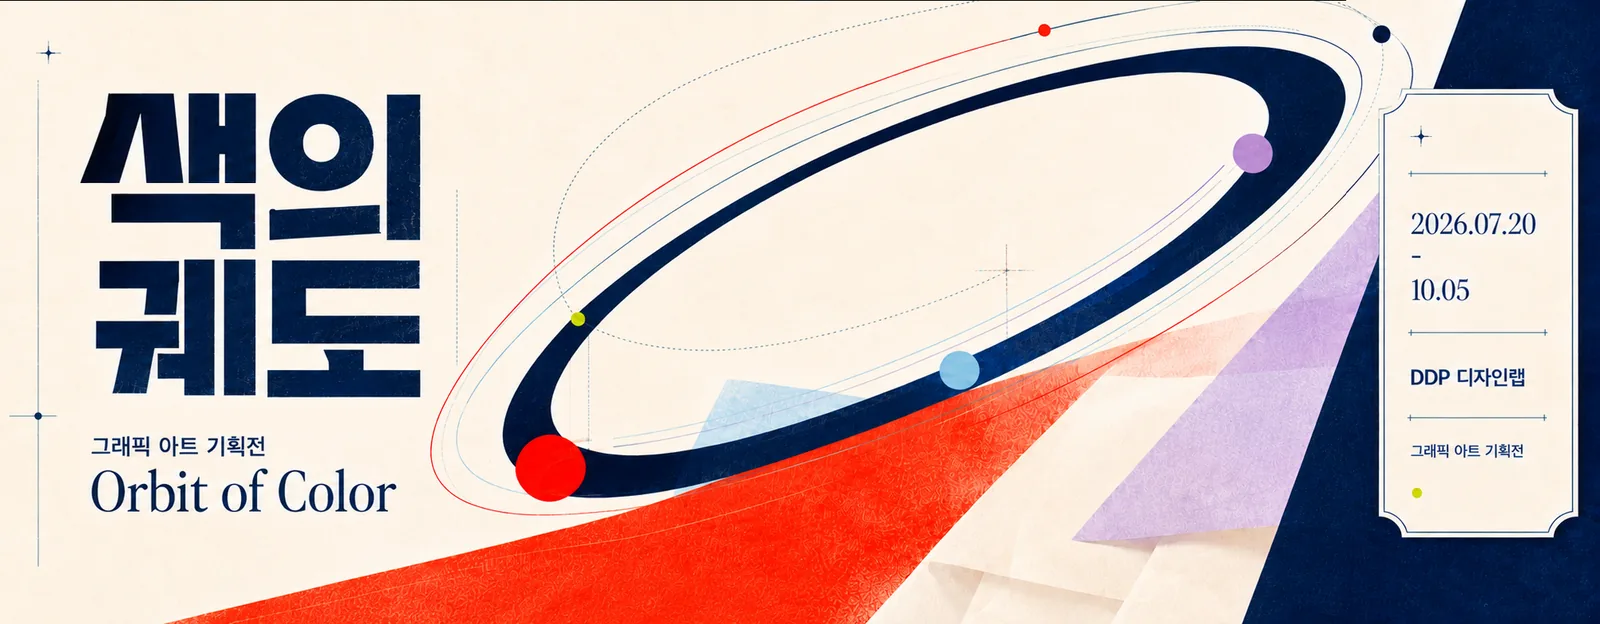
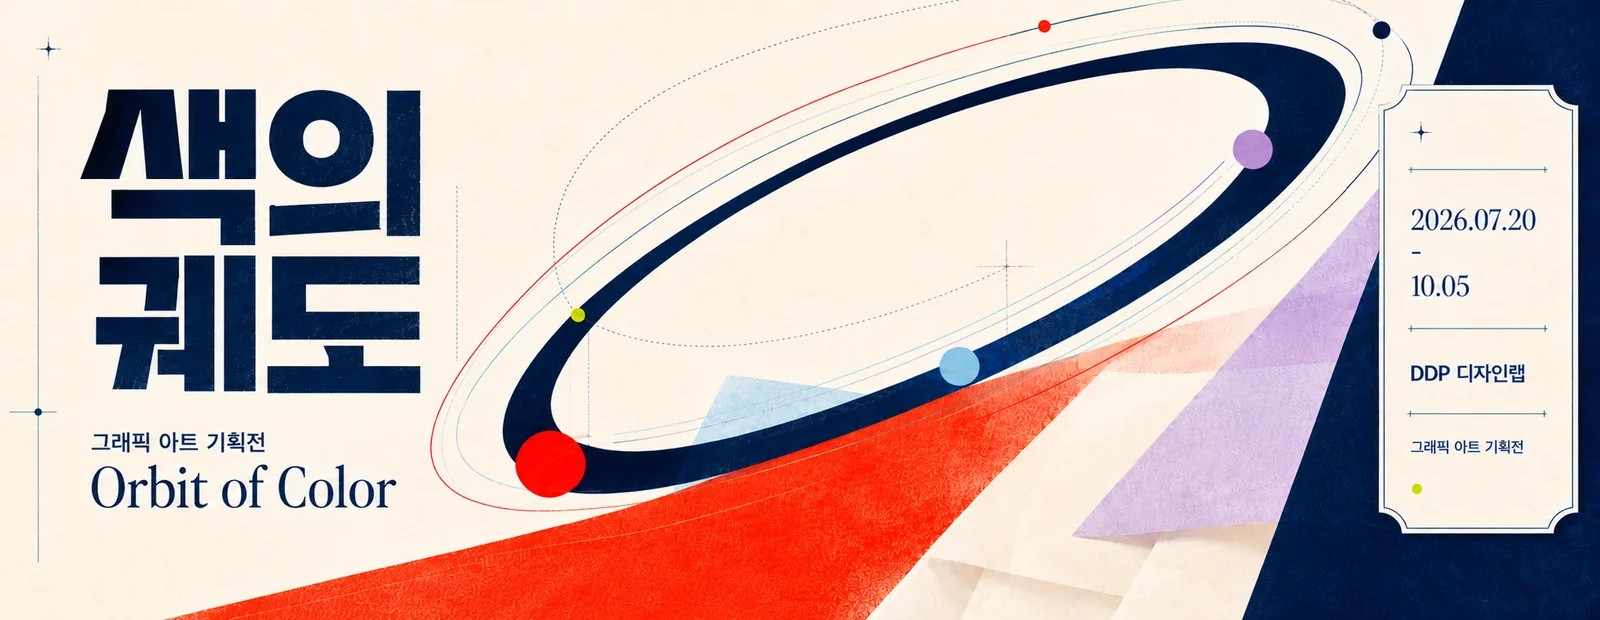
전체보기 그리드 배너 클릭 확대 추가 + 소개 문구 통일
- Banner 전체보기 그리드에서 배너 클릭 시 원본 확대(오버레이) 지원
- 사이드바/이름/타이틀 소개 문구를 'Visual Graphic · ...'로 통일
- 배너 29 썸네일을 800px 규격으로 복구(원본 크기로 잘못 저장돼 있던 것)
- .pt-images/ (채팅 주석 스크린샷) gitignore 처리

Claude-Session: https://claude.ai/code/session_01UCf6XrBxcSYWrN9poRsEtR

diff --git a/index.html b/index.html
@@ -3,11 +3,11 @@
   <head>
     <meta charset="utf-8">
     <meta name="viewport" content="width=device-width, initial-scale=1">
-    <title>조현채 · Visual / Banner / UI·UX Design Portfolio</title>
+    <title>조현채 · Visual Graphic · Banner · UI·UX Design Portfolio</title>
     <meta name="description" content="조현채 포트폴리오 — 시각그래픽디자인, 배너디자인, UI·UX디자인 작업을 한 웹사이트에 정리한 아카이브입니다.">
     <meta name="author" content="조현채 (Jo Hyeon Chae)">
     <meta property="og:type" content="website">
-    <meta property="og:title" content="조현채 · Visual / Banner / UI·UX Design Portfolio">
+    <meta property="og:title" content="조현채 · Visual Graphic · Banner · UI·UX Design Portfolio">
     <meta property="og:description" content="시각그래픽·배너·UI·UX 디자인 작업을 정리한 조현채의 디자인 포트폴리오.">
     <meta name="twitter:card" content="summary_large_image">
     <style>
@@ -1140,6 +1140,58 @@
         margin-right: 6px;
       }
 
+      .bgrid-item {
+        cursor: zoom-in;
+      }
+
+      /* 전체 보기 그리드에서 배너 클릭 시 원본 확대 */
+      .bgrid-zoom {
+        position: fixed;
+        inset: 0;
+        z-index: 1100;
+        display: flex;
+        flex-direction: column;
+        align-items: center;
+        justify-content: center;
+        gap: 14px;
+        padding: 40px;
+        background: rgba(12, 12, 12, 0.92);
+        opacity: 0;
+        visibility: hidden;
+        transition: opacity .25s ease, visibility .25s ease;
+        cursor: zoom-out;
+      }
+
+      .bgrid-zoom.show {
+        opacity: 1;
+        visibility: visible;
+      }
+
+      .bgrid-zoom img {
+        display: block;
+        width: auto;
+        height: auto;
+        max-width: 92%;
+        max-height: 82%;
+        box-shadow: 0 20px 60px rgba(0, 0, 0, 0.5);
+      }
+
+      .bgrid-zoom-cap {
+        display: flex;
+        align-items: baseline;
+        gap: 12px;
+        font-size: 14px;
+        color: #fff;
+      }
+
+      .bgrid-zoom-cap b {
+        font-weight: 700;
+      }
+
+      .bgrid-zoom-cap span {
+        color: rgba(255, 255, 255, 0.55);
+      }
+
       @media (max-width: 640px) {
         .bgrid-inner {
           grid-template-columns: 1fr;
@@ -1958,7 +2010,7 @@
             <div class="mark">HC</div>
             <div>
               <h1>Hyeonchae<br>Portfolio</h1>
-              <p>Visual Graphic / Banner / UI·UX Design</p>
+              <p>Visual Graphic · Banner · UI·UX</p>
             </div>
           </div>
           <nav class="nav">
@@ -2438,7 +2490,7 @@
                 </div>
                 <div class="profile-text">
                   <h3>조현채</h3>
-                  <p class="role">Visual/Graphic · UI·UX Designer</p>
+                  <p class="role">Visual Graphic · UI·UX Designer</p>
                   <div class="profile-info">
                     <p><span>BIRTH</span>2003.12.15</p>
                     <p><span>PHONE</span>010-8947-2759</p>
@@ -3231,6 +3283,33 @@
         if (bgrid && viewall) {
           var bgInner = bgrid.querySelector('.bgrid-inner');
           var srcs = BANNERS.map(function (b) { return b.src; });
+
+          // 그리드에서 배너를 누르면 원본을 확대해 보여주는 오버레이
+          var bzoom = document.createElement('div');
+          bzoom.className = 'bgrid-zoom';
+          bzoom.setAttribute('aria-hidden', 'true');
+          var bzImg = document.createElement('img');
+          var bzCap = document.createElement('div');
+          bzCap.className = 'bgrid-zoom-cap';
+          var bzB = document.createElement('b');
+          var bzS = document.createElement('span');
+          bzCap.appendChild(bzB); bzCap.appendChild(bzS);
+          bzoom.appendChild(bzImg); bzoom.appendChild(bzCap);
+          bgrid.appendChild(bzoom);
+
+          function bzOpen(full, title, cat) {
+            bzImg.src = full;                 // 확대는 원본
+            bzB.textContent = title || '';
+            bzS.textContent = cat || '';
+            bzoom.classList.add('show');
+            bzoom.setAttribute('aria-hidden', 'false');
+          }
+          function bzClose() {
+            bzoom.classList.remove('show');
+            bzoom.setAttribute('aria-hidden', 'true');
+          }
+          bzoom.addEventListener('click', bzClose);
+
           BANNERS.forEach(function (b, i) {
             var item = document.createElement('div');
             item.className = 'bgrid-item';
@@ -3242,6 +3321,7 @@
             var ss = document.createElement('span'); ss.textContent = b.c;
             cap.appendChild(bb); cap.appendChild(ss);
             item.appendChild(img); item.appendChild(cap);
+            item.addEventListener('click', function () { bzOpen(b.src, b.t, b.c); });
             bgInner.appendChild(item);
           });
 
@@ -3252,6 +3332,7 @@
             bgrid.scrollTop = 0;
           }
           function bgClose() {
+            bzClose();
             bgrid.classList.remove('show');
             bgrid.setAttribute('aria-hidden', 'true');
             document.body.style.overflow = '';
@@ -3261,7 +3342,9 @@
           bgrid.querySelector('.bgrid-close').addEventListener('click', bgClose);
           bgrid.addEventListener('click', function (e) { if (e.target === bgrid) bgClose(); });
           document.addEventListener('keydown', function (e) {
-            if (bgrid.classList.contains('show') && e.key === 'Escape') bgClose();
+            if (e.key !== 'Escape') return;
+            if (bzoom.classList.contains('show')) { bzClose(); return; }
+            if (bgrid.classList.contains('show')) bgClose();
           });
         }
       })();
